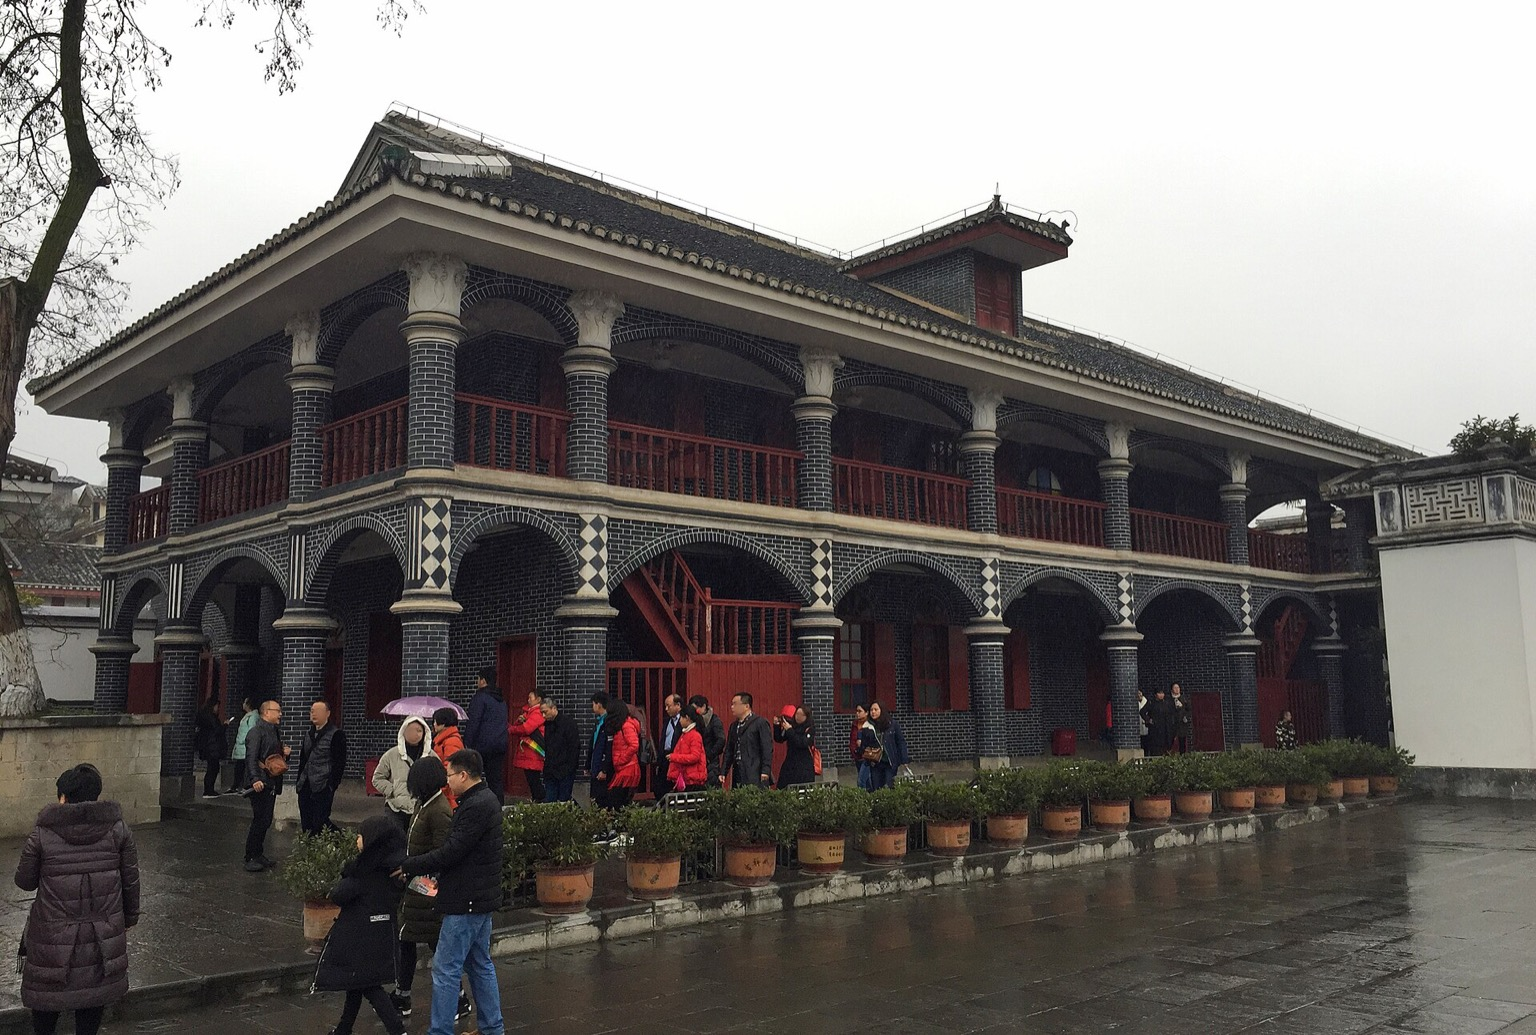
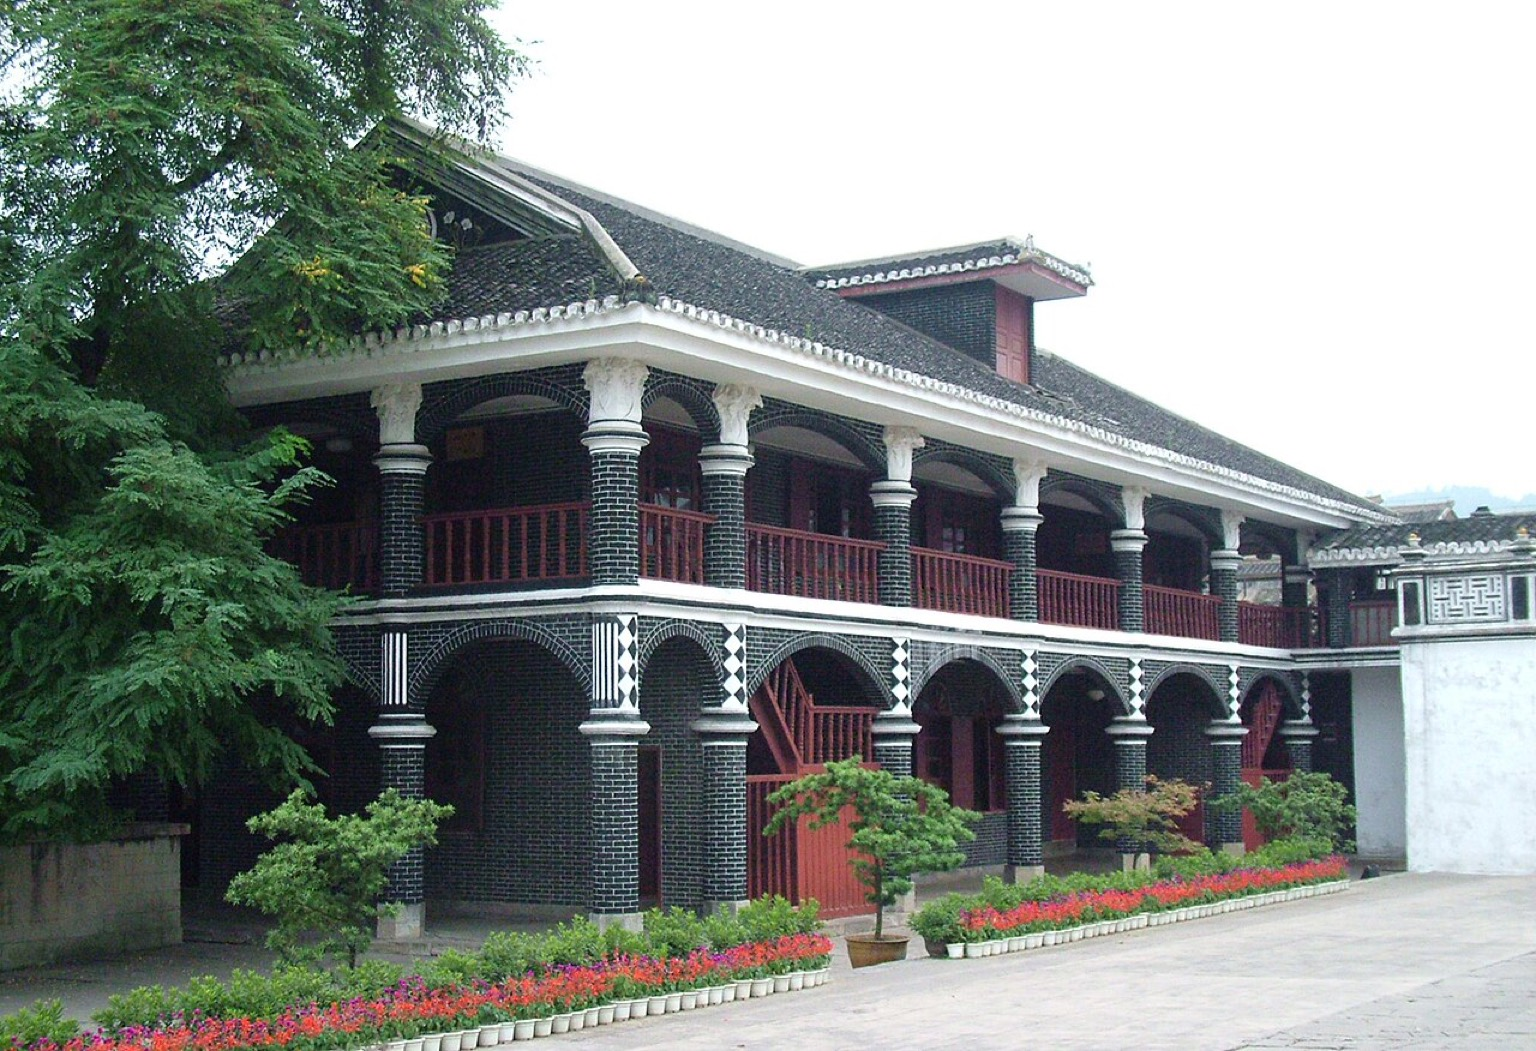
遵义会址换用更干净、人少的历史实景照（ZunyiMeeting.jpg）

diff --git a/place-zunyi.html b/place-zunyi.html
@@ -58,8 +58,8 @@
     <section class="bio-section">
       <p class="bio-lead reveal">1935 年 1 月，中央红军突破乌江天险占领遵义。15 日至 17 日，中共中央政治局扩大会议在城里一栋二层小楼里召开，三天时间，在极端危急的历史关头挽救了党、挽救了红军、挽救了中国革命。</p>
       <figure class="detail-figure reveal">
-        <img src="assets/images/zunyi.jpg" alt="遵义会议会址实景" loading="lazy">
-        <figcaption>图片来源：<a href="https://commons.wikimedia.org/wiki/File:Site_of_Zunyi_Conference_(20180220101816).jpg" target="_blank" rel="noopener">Wikimedia Commons</a> · 作者 N509FZ · <a href="https://creativecommons.org/licenses/by-sa/4.0/" target="_blank" rel="noopener">CC BY-SA 4.0</a>（已缩放）</figcaption>
+        <img src="assets/images/zunyi.jpg?v=20260829a" alt="遵义会议会址实景" loading="lazy">
+        <figcaption>图片来源：<a href="https://commons.wikimedia.org/wiki/File:ZunyiMeeting.jpg" target="_blank" rel="noopener">Wikimedia Commons</a> · 作者 小小新手 · <a href="https://creativecommons.org/licenses/by-sa/3.0/" target="_blank" rel="noopener">CC BY-SA 3.0</a>（已缩放）</figcaption>
       </figure>
     </section>
 

diff --git a/event-zunyi.html b/event-zunyi.html
@@ -58,8 +58,8 @@
     <section class="bio-section">
       <p class="bio-lead reveal">1935 年 1 月 15 日至 17 日，中共中央政治局扩大会议在遵义召开，集中纠正「左」倾军事路线错误，事实上确立毛泽东在党中央和红军的领导地位。</p>
       <figure class="detail-figure reveal">
-        <img src="assets/images/zunyi.jpg" alt="遵义会议会址实景" loading="lazy">
-        <figcaption>图片来源：<a href="https://commons.wikimedia.org/wiki/File:Site_of_Zunyi_Conference_(20180220101816).jpg" target="_blank" rel="noopener">Wikimedia Commons</a> · 作者 N509FZ · <a href="https://creativecommons.org/licenses/by-sa/4.0/" target="_blank" rel="noopener">CC BY-SA 4.0</a>（已缩放）</figcaption>
+        <img src="assets/images/zunyi.jpg?v=20260829a" alt="遵义会议会址实景" loading="lazy">
+        <figcaption>图片来源：<a href="https://commons.wikimedia.org/wiki/File:ZunyiMeeting.jpg" target="_blank" rel="noopener">Wikimedia Commons</a> · 作者 小小新手 · <a href="https://creativecommons.org/licenses/by-sa/3.0/" target="_blank" rel="noopener">CC BY-SA 3.0</a>（已缩放）</figcaption>
       </figure>
     </section>
 

diff --git a/places.html b/places.html
@@ -82,7 +82,7 @@
             <p class="place-desc">长征途中的生死攸关转折点。遵义会议在极端危急的历史关头，挽救了党、挽救了红军、挽救了中国革命。</p>
             <a class="text-link sm" href="place-zunyi.html">进一步了解 ›</a>
           </div>
-          <figure class="place-img"><img src="assets/images/zunyi.jpg" alt="遵义会议会址实景" loading="lazy"></figure>
+          <figure class="place-img"><img src="assets/images/zunyi.jpg?v=20260829a" alt="遵义会议会址实景" loading="lazy"></figure>
         </article>
 
         <article class="place-row reveal">
